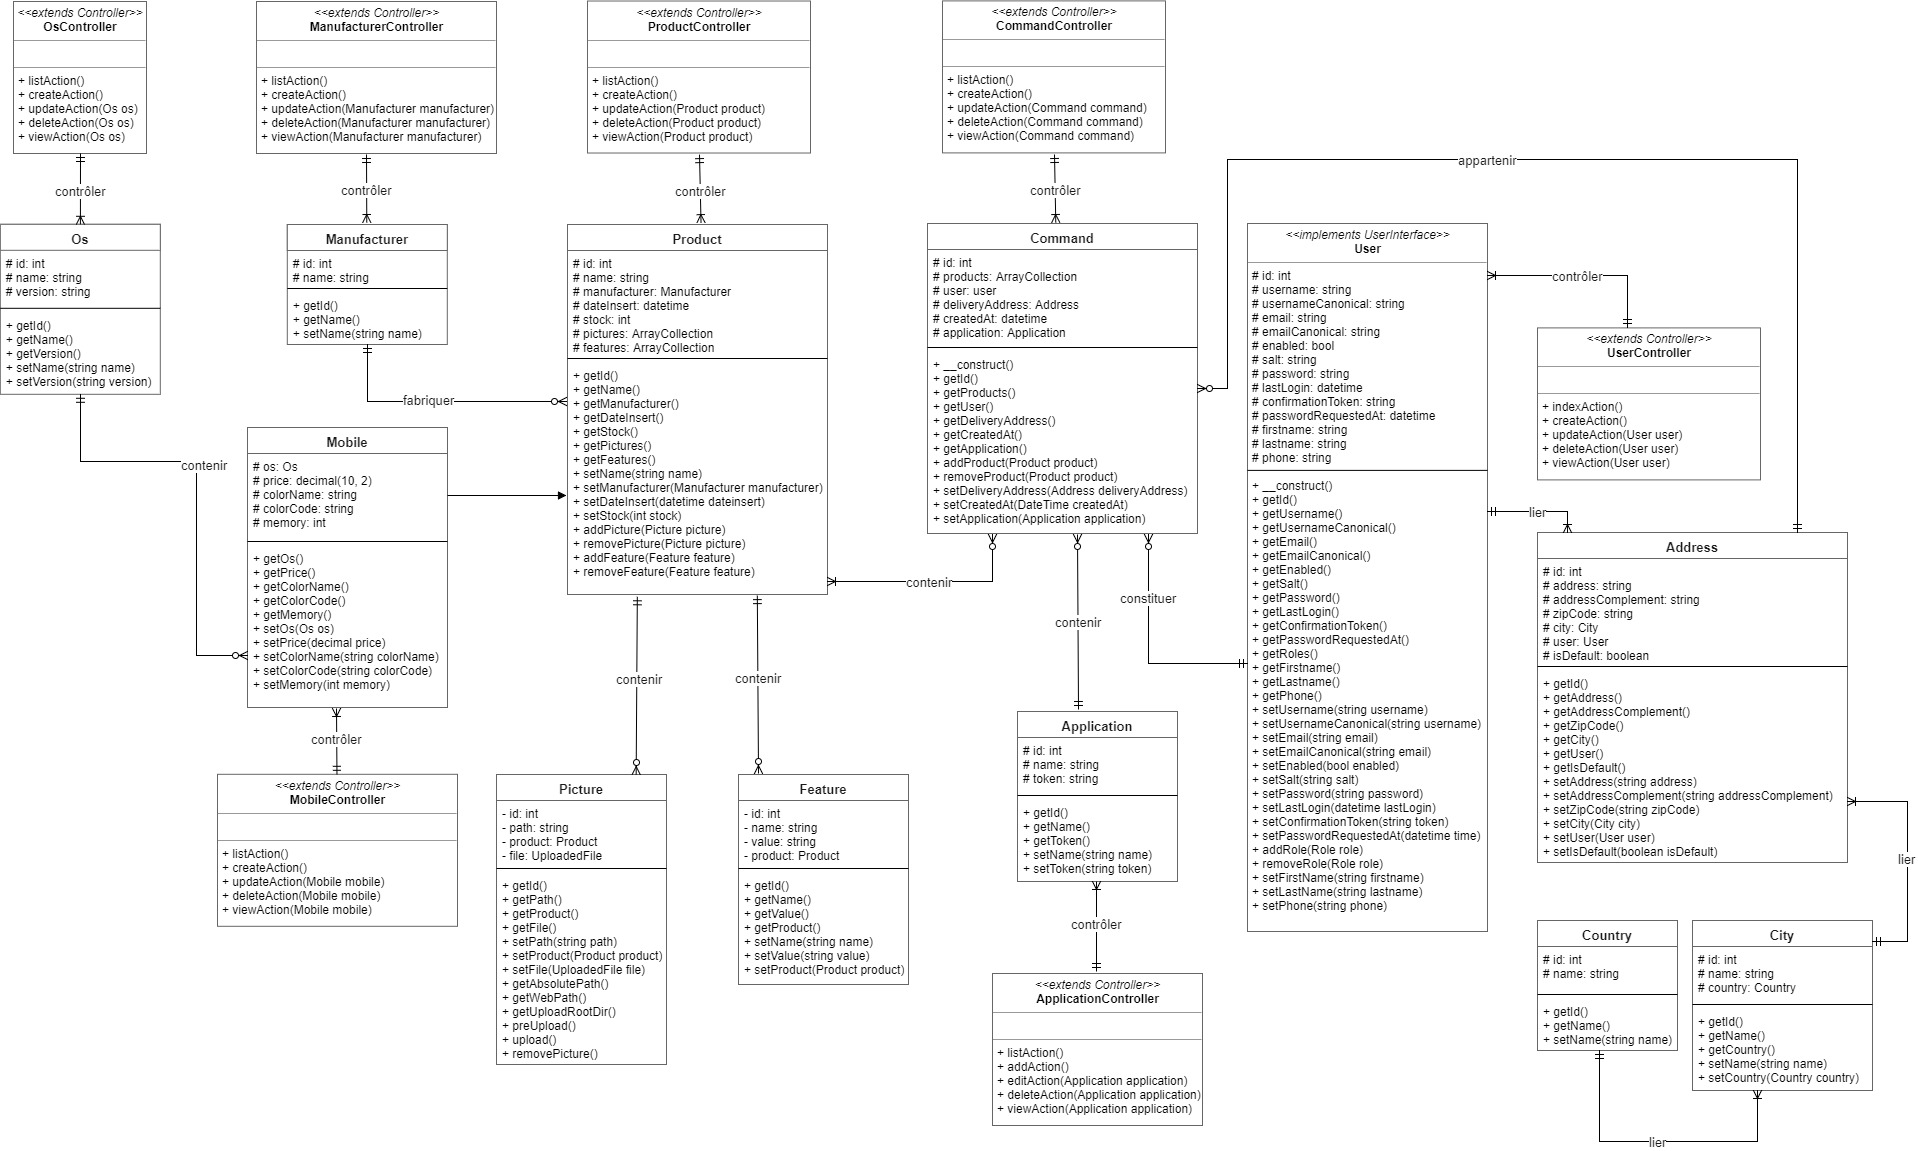
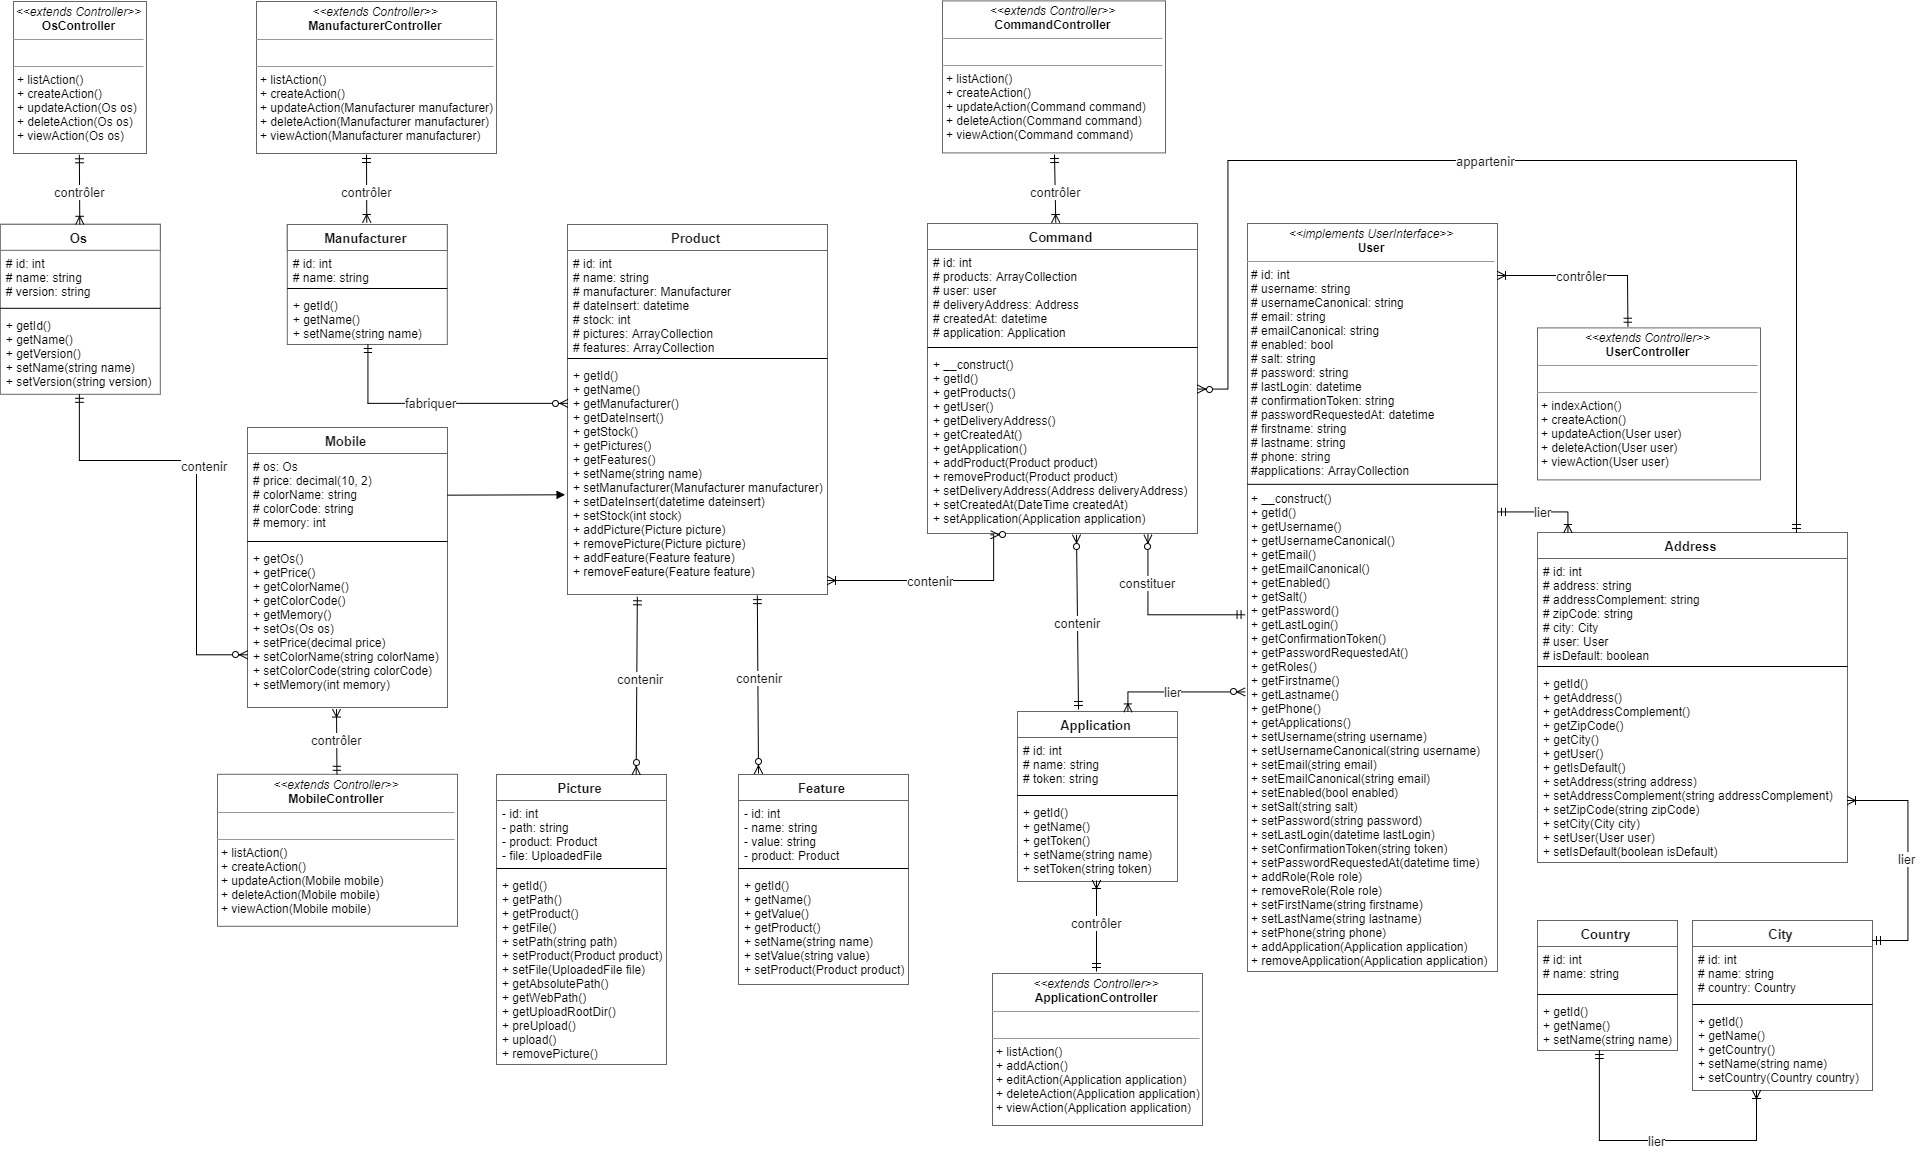
Created User CRUD

diff --git a/api/src/AppBundle/Controller/UserController.php b/api/src/AppBundle/Controller/UserController.php
@@ -1,0 +1,121 @@
+<?php
+
+namespace AppBundle\Controller;
+
+use FOS\RestBundle\Controller\FOSRestController;
+use FOS\RestBundle\Controller\Annotations as Rest;
+use Sensio\Bundle\FrameworkExtraBundle\Configuration\ParamConverter;
+use Symfony\Component\HttpFoundation\Response;
+use Symfony\Component\Routing\Generator\UrlGeneratorInterface;
+use AppBundle\Entity\User;
+
+class UserController extends FOSRestController
+{
+    /**
+     * @Rest\Get(
+     *     path = "/users",
+     *     name = "api_user_list"
+     * )
+     * @Rest\View(
+     *     statusCode = 200
+     * )
+     */
+    public function listAction()
+    {
+        $em = $this->getDoctrine()->getManager();
+
+        $usersList = $em->getRepository('AppBundle:User')->findAll();
+
+        return $usersList;
+    }
+
+    /**
+     * @Rest\Get(
+     *     path = "/users/{id}",
+     *     name = "api_user_view",
+     *     requirements = { "id" = "\d+" }
+     * )
+     *
+     * @Rest\View(
+     *     statusCode = 200
+     * )
+     */
+    public function viewAction(User $user)
+    {
+        return $user;
+    }
+
+    /**
+     * @Rest\Post(
+     *     path = "/users",
+     *     name = "api_user_create"
+     * )
+     * @Rest\View(
+     *     statusCode = 201
+     * )
+     *
+     * @ParamConverter("user", converter="fos_rest.request_body")
+     */
+    public function createAction(User $user)
+    {
+        $em = $this->getDoctrine()->getManager();
+
+        $em->persist($user);
+        $em->flush();
+
+        return $this->view(
+            $user,
+            Response::HTTP_CREATED,
+            ['Location' => $this->generateUrl('api_user_view', ['id' => $user->getId(), UrlGeneratorInterface::ABSOLUTE_URL])]
+        );
+    }
+
+    /**
+     * @Rest\Put(
+     *     path = "users/{id}",
+     *     name = "api_user_update",
+     *     requirements = { "id" = "\d+" }
+     * )
+     * @Rest\View(
+     *     statusCode = 200
+     * )
+     *
+     * @ParamConverter("newUser", converter="fos_rest.request_body")
+     */
+    public function updateAction(User $user, User $newUser)
+    {
+        $user->setFirstname($newUser->getFirstname());
+        $user->setLastname($newUser->getLastname());
+        $user->setPhone($newUser->getPhone());
+        $user->setUsername($newUser->getFirstname().' '.$newUser->getLastname());
+        $user->setPlainPassword($newUser->getPlainPassword());
+        $user->setEmail($newUser->getEmail());
+
+        $this->getDoctrine()->getManager()->flush();
+
+        return $user;
+    }
+
+    /**
+     * @Rest\Delete(
+     *     path = "users/{id}",
+     *     name = "api_user_delete",
+     *     requirements = { "id" = "\d+" }
+     * )
+     * @Rest\View(
+     *     statusCode = 204
+     * )
+     */
+    public function deleteAction($id)
+    {
+        $em = $this->getDoctrine()->getManager();
+        $user = $em->getRepository('AppBundle:User')->findOneById($id);
+
+        if ($user) {
+            $em->remove($user);
+            $em->flush();
+        }
+
+        return;
+    }
+}

diff --git a/api/src/AppBundle/Entity/User.php b/api/src/AppBundle/Entity/User.php
@@ -2,7 +2,9 @@
 
 namespace AppBundle\Entity;
 
+use Doctrine\Common\Collections\ArrayCollection;
 use Doctrine\ORM\Mapping as ORM;
+use FOS\UserBundle\Model\User as BaseUser;
 
 /**
  * User
@@ -10,7 +12,7 @@ use Doctrine\ORM\Mapping as ORM;
  * @ORM\Table(name="bilemo_user")
  * @ORM\Entity(repositoryClass="AppBundle\Repository\UserRepository")
  */
-class User
+class User extends BaseUser
 {
     /**
      * @var int
@@ -19,29 +21,43 @@ class User
      * @ORM\Id
      * @ORM\GeneratedValue(strategy="AUTO")
      */
-    private $id;
+    protected $id;
 
     /**
      * @var string
      *
      * @ORM\Column(name="firstname", type="string", length=255)
      */
-    private $firstname;
+    protected $firstname;
 
     /**
      * @var string
      *
      * @ORM\Column(name="lastname", type="string", length=255)
      */
-    private $lastname;
+    protected $lastname;
 
     /**
      * @var string
      *
      * @ORM\Column(name="phone", type="string", length=255)
      */
-    private $phone;
+    protected $phone;
 
+    /**
+     * @var ArrayCollection
+     *
+     * @ORM\ManyToMany(targetEntity="Application")
+     */
+    protected $applications;
+
+    public function __construct()
+    {
+        parent::__construct();
+        $this->applications = new ArrayCollection();
+        $this->setUsername($this->firstname. ' '. $this->lastname);
+        $this->setEnabled(true);
+    }
 
     /**
      * Get id
@@ -123,6 +139,28 @@ class User
     public function getPhone()
     {
         return $this->phone;
+    }
+
+    /**
+     * Add application
+     *
+     * @param Application application
+     *
+     * @return Command
+     */
+    public function addApplication(Application $application)
+    {
+        $this->applications[] = $application;
+        return $this;
+    }
+    /**
+     * Remove application
+     *
+     * @param Application $application
+     */
+    public function removeApplication(Application $application)
+    {
+        $this->applications->removeElement($application);
     }
 }
 

diff --git a/api/app/AppKernel.php b/api/app/AppKernel.php
@@ -17,6 +17,7 @@ class AppKernel extends Kernel
             new Doctrine\Bundle\DoctrineBundle\DoctrineBundle(),
             new Sensio\Bundle\FrameworkExtraBundle\SensioFrameworkExtraBundle(),
             new FOS\RestBundle\FOSRestBundle(),
+            new FOS\UserBundle\FOSUserBundle(),
             new AppBundle\AppBundle(),
         ];
 

diff --git a/api/src/AppBundle/Entity/Command.php b/api/src/AppBundle/Entity/Command.php
@@ -85,6 +85,7 @@ class Command
         $this->products[] = $product;
         return $this;
     }
+
     /**
      * Remove product
      *
